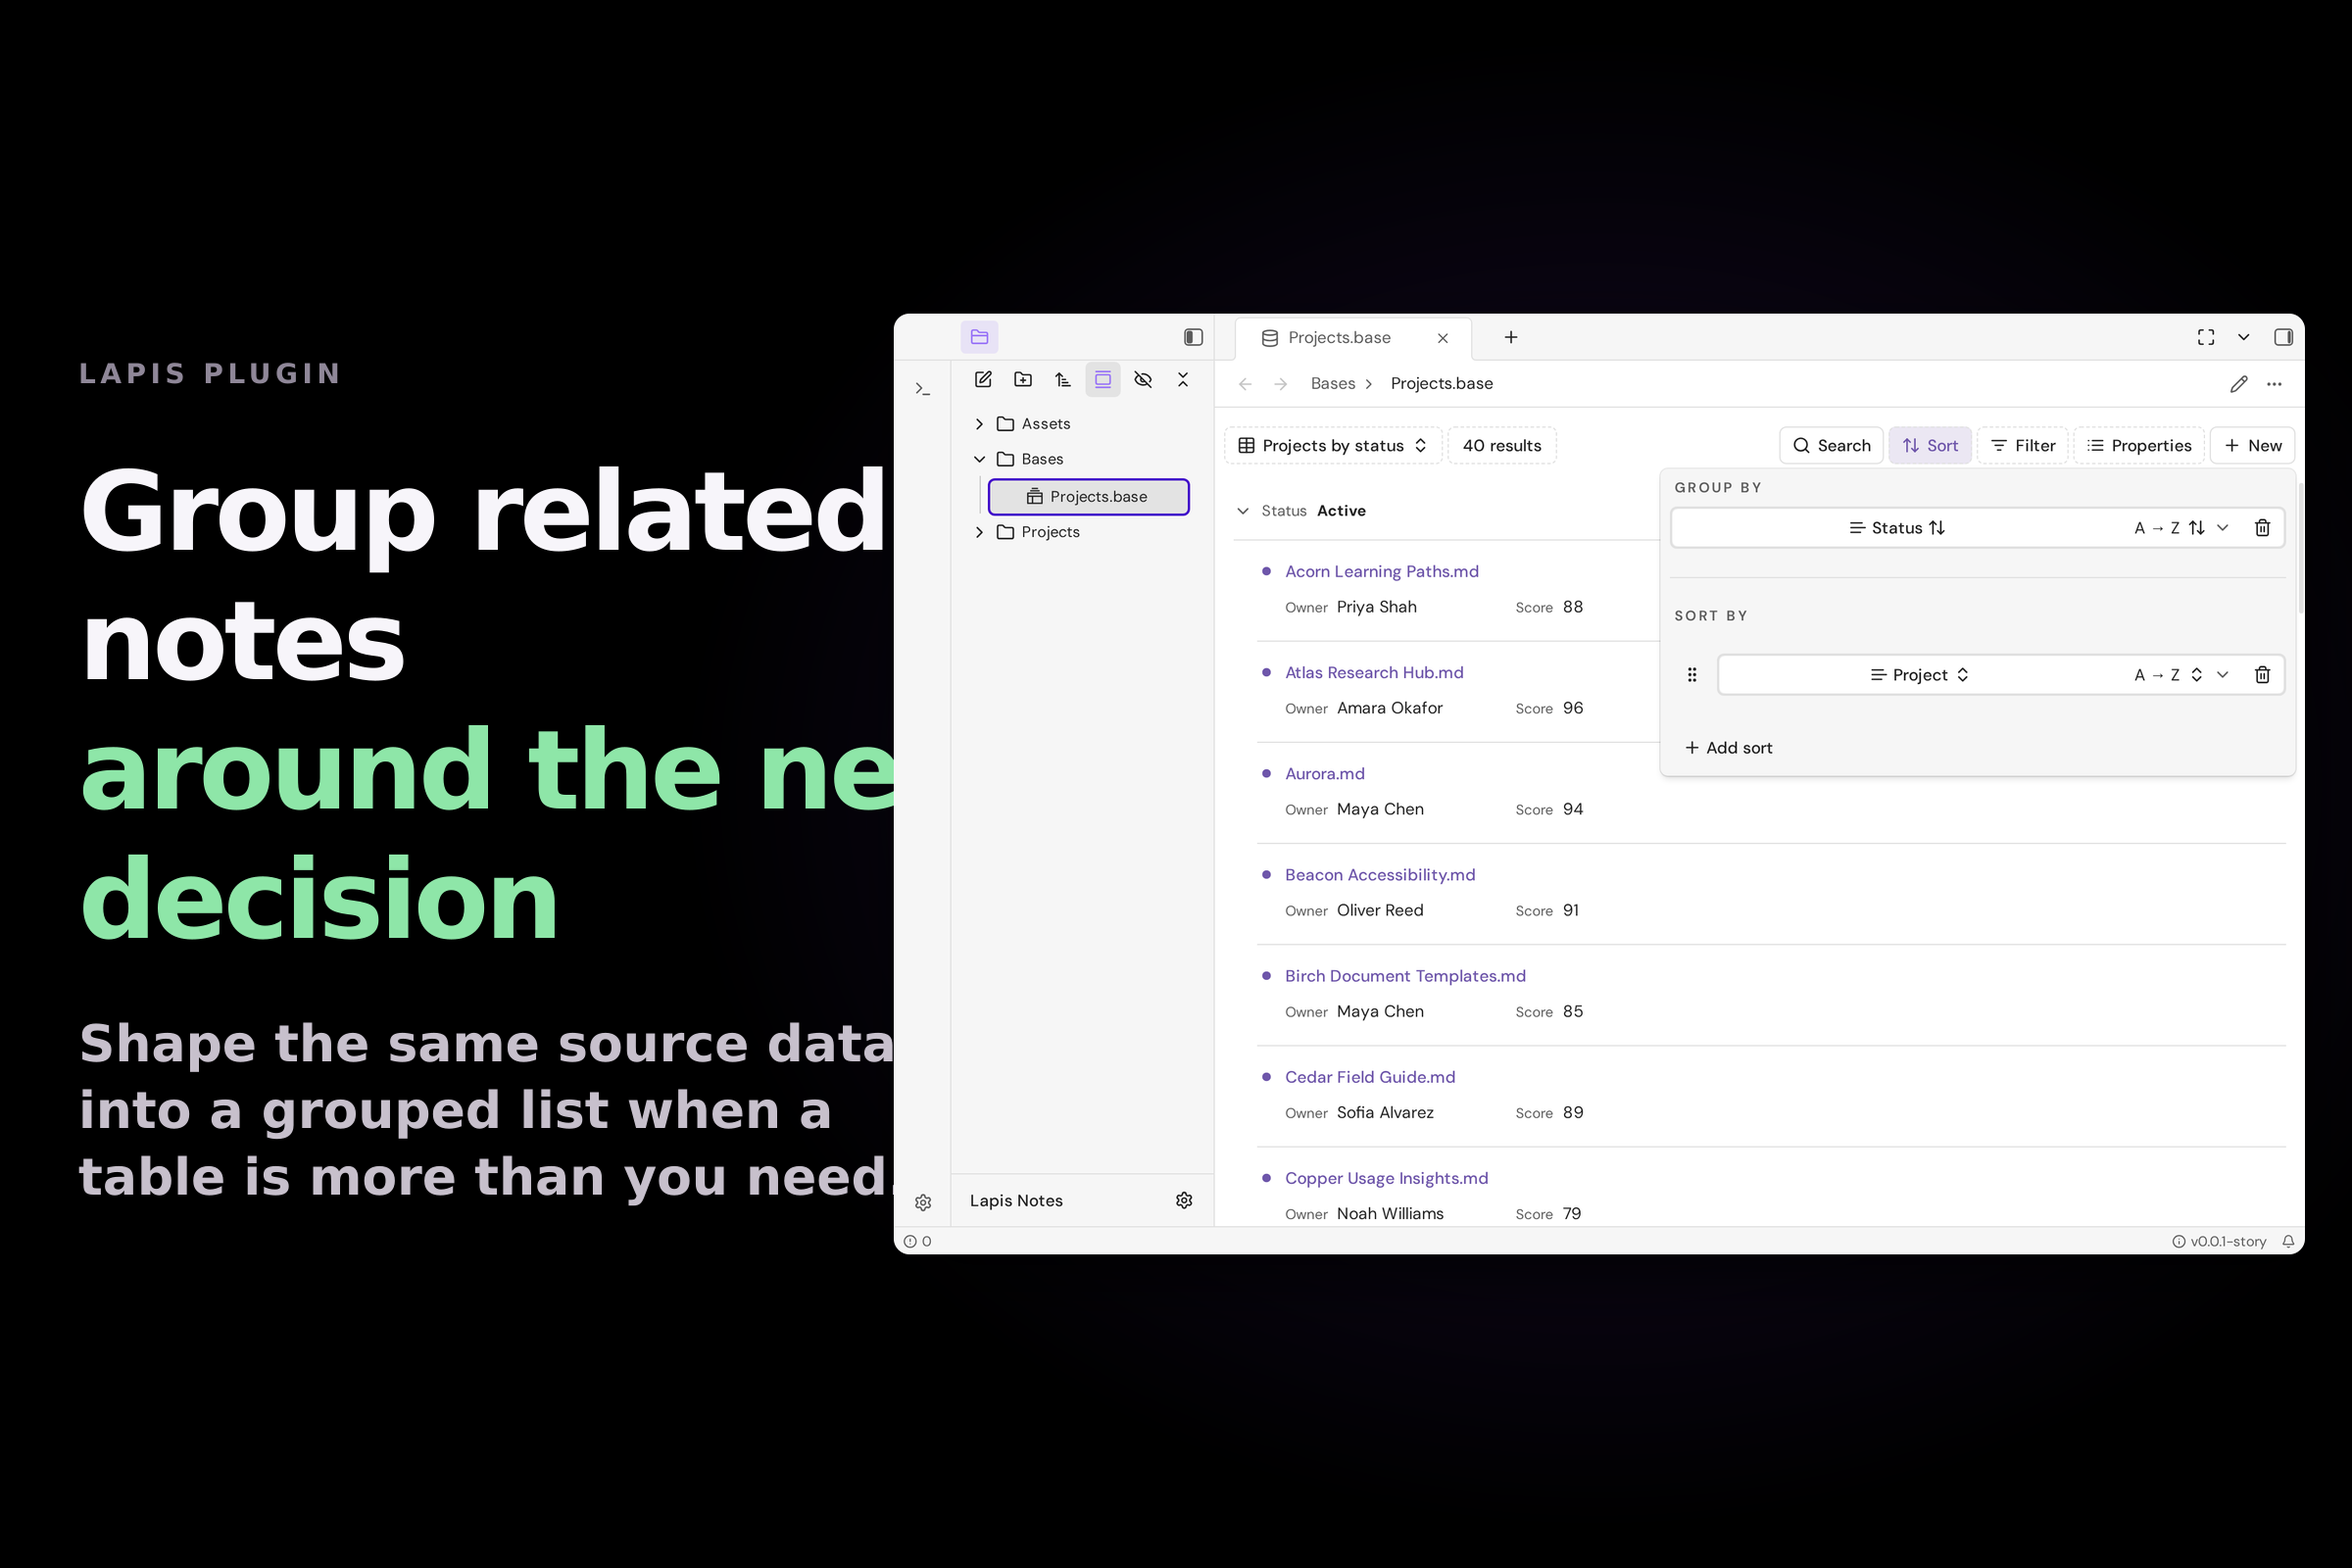
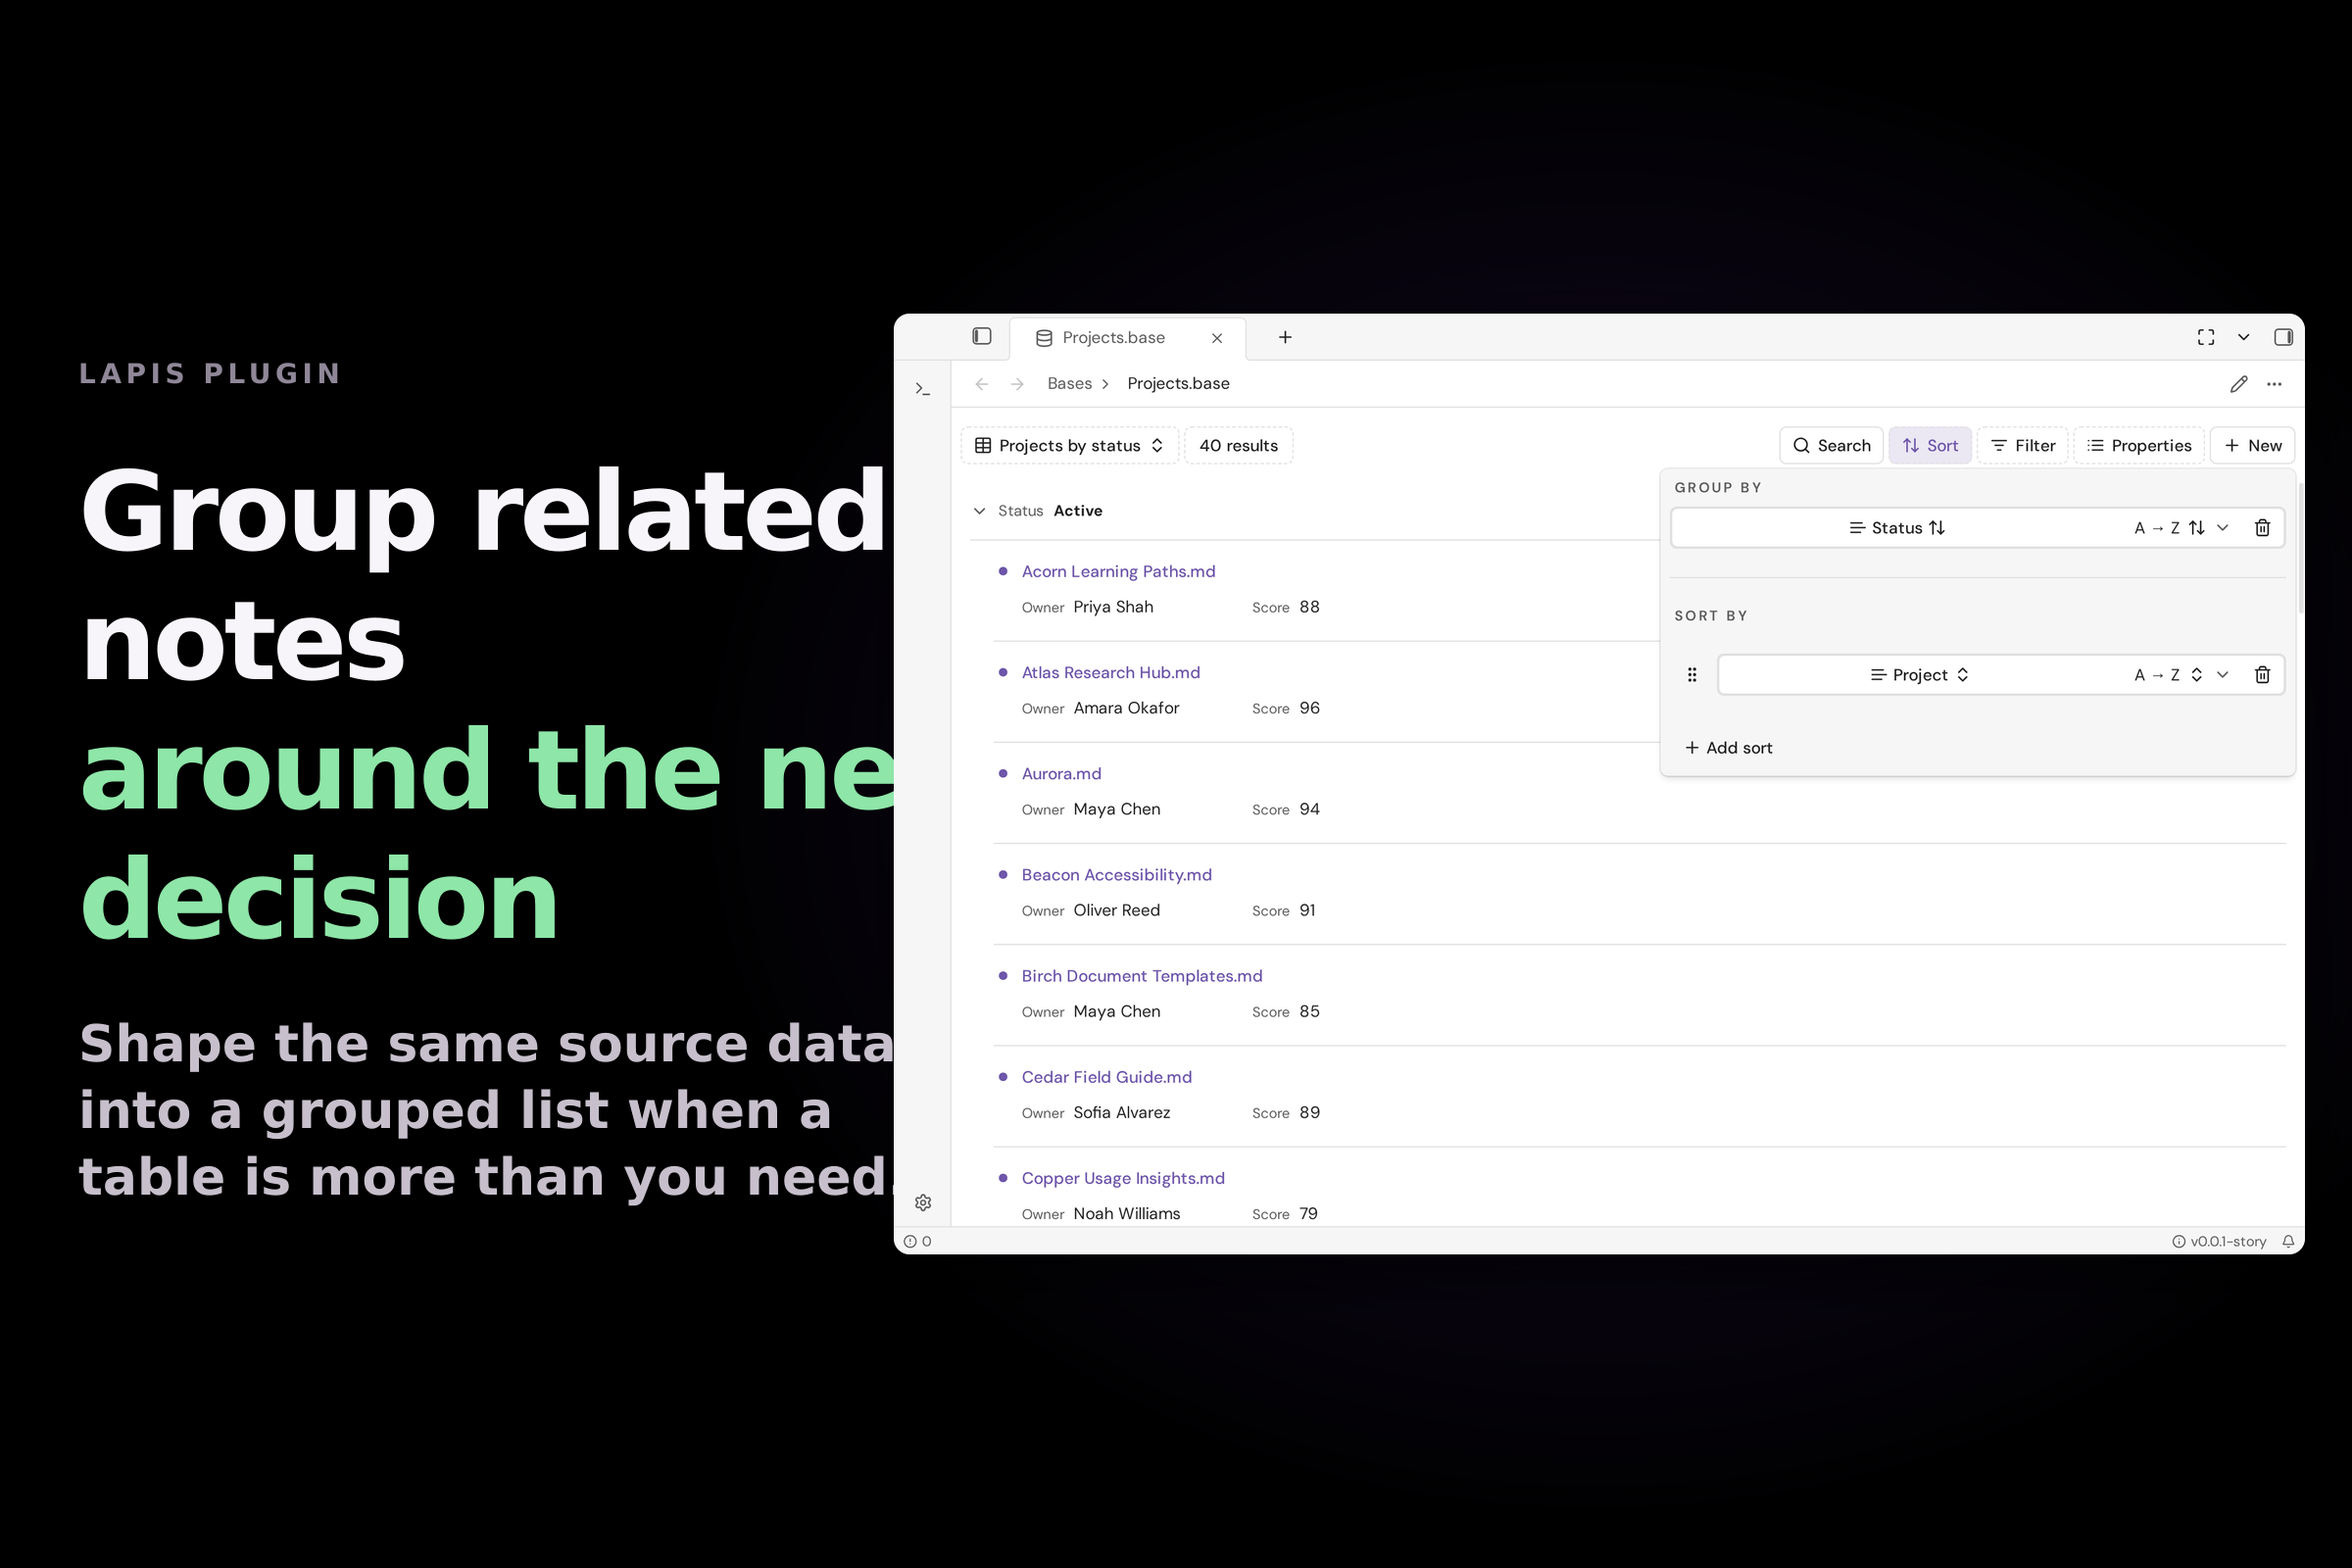
Seed Bases registry screenshots with sidebars closed

diff --git a/stories/plugins/bases/RegistryScreenshots.stories.ts b/stories/plugins/bases/RegistryScreenshots.stories.ts
@@ -45,15 +45,16 @@ async function waitForScenario(
       );
       expect(canvas.getByTestId("bases-editor-shell-demo")).toHaveAttribute(
         "data-focus-mode",
-        "false",
+        "true",
       );
       expect(canvasElement.querySelector(selector)).toBeVisible();
       const leftSidebar = canvasElement.querySelector<HTMLElement>(
         '[data-workspace-surface="left-sidebar"]',
       );
-      expect(leftSidebar?.getBoundingClientRect().width ?? 0).toBeGreaterThan(
-        100,
-      );
+      expect(leftSidebar?.getBoundingClientRect().width ?? 0).toBe(0);
+      expect(
+        canvas.getByRole("button", { name: "Open left sidebar" }),
+      ).toBeVisible();
     },
     { timeout: 20_000 },
   );
@@ -65,7 +66,7 @@ async function waitForScenario(
 }
 
 function focusedArgs(scenario: BasesViewScenario) {
-  return { scenario, focusMode: false, fixtureProfile: "registry" } as const;
+  return { scenario, focusMode: true, fixtureProfile: "registry" } as const;
 }
 
 export const FilterOptions: Story = {

diff --git a/spec/records/2026-11-08-bases-registry-focus-mode.md b/spec/records/2026-11-08-bases-registry-focus-mode.md
@@ -1,0 +1,29 @@
+# Bases registry captures with sidebars closed
+
+The Bases registry screenshot stories seed the existing shell focus mode so
+Explorer starts closed and the Bases view fills the available workspace. This
+applies to Filter options, Cover cards, Overview, Grouped list, Kanban and
+Activity. Ordinary shell stories retain their existing Explorer layout.
+
+## Regression and acceptance
+
+- Before: `pnpm test:storybook -- stories/plugins/bases/RegistryScreenshots.stories.ts -t '^Kanban$'`
+  failed once when the closed-sidebar assertion ran against the previous seed
+  (`lapis-plugins-validation-3f6df6ee-ca4b-4be3-8cb8-cc8b72760766`).
+- After: the same target passes. The complete Bases family passes all 29
+  interaction/accessibility stories, including all six registry stories and
+  the ordinary shell stories. Registry plays assert zero left-sidebar width,
+  the accessible reopen control and the existing scrolling/content contracts.
+- Remote Docker on omarchy (4 CPUs, 12 GiB) passes `ci:release`: audit,
+  specifications, App ownership, 193 tooling tests, all 51 package tasks,
+  17 npm packs, 17 plugin payload verifications and a cold static Storybook.
+- All 28 declared Bases WebPs are regenerated. A separate deterministic media
+  check passes all seven items against the newly built Storybook.
+
+Combined receipt: `lapis-plugins-validation-f7c34b64-e24a-4f02-8180-ca5eaa148654`.
+The tested source snapshot is `9f52d3f3bfab762a6b24a3d3b38c7558fe46cd47`;
+generated images and this receipt are collected afterward.
+
+The local review story visibly renders with Explorer closed. No public API,
+plugin version, publication, registry dispatch or Visual Delta baseline changes
+are included. Stories retain `visual-pending` for human review.

diff --git a/spec/src/plugins/bases/index.md b/spec/src/plugins/bases/index.md
@@ -59,12 +59,14 @@ highlights, and registry-only Overview content under LP-SPEC-021 and LP-SPEC-033
 metadata remain authoritative for the fields defined by LP-SPEC-022.
 Registry identity and capture-backed gallery media remain package-owned under
 LP-SPEC-030 and LP-SPEC-031. Governed `Registry Screenshots` stories cover
-focused Filter options, Cover cards with real artwork, and a Grouped List with
-its grouping controls open; all stay `visual-pending` until separate visual
-approval.
-All three focused views use the uncropped full-shell composition so their
-complete workspace width remains visible before the shared dark right-edge
-gutter. The manifest summary names the table, card, and grouped Markdown
+focused Filter options, Cover cards with real artwork, a Grouped List with
+its grouping controls open, Kanban, and Activity; all stay `visual-pending`
+until separate visual approval.
+Every Bases registry screenshot MUST seed both sidebars closed and retain
+the real application shell, giving the selected Bases view the full available
+workspace width. Story interactions MUST assert the closed left sidebar and
+its accessible reopen control. Ordinary shell stories retain their Explorer
+layout. The manifest summary names the table, card, and grouped Markdown
 property views instead of repeating the plugin name.
 The fixed banner state uses the populated cover-card workspace with real
 artwork. The separate Overview image uses the Grouped List story so the body

diff --git a/spec/src/registry-media.md b/spec/src/registry-media.md
@@ -61,7 +61,8 @@ CSV is an active catalog package. Registry media selection includes
 Each plugin owns one explicit banner story. AI shows History left, Chat in the
 main area, and Catalog right. Graph shows Explorer, Global Graph, and Local
 Graph. History shows Explorer, Compare, and History. Markdown shows Backlinks,
-Live Preview, and File Properties. Bases uses the populated cover cards view.
+Live Preview, and File Properties. Bases uses the populated cover cards view;
+all Bases captures seed both sidebars closed so the Bases view fills the shell.
 Bookmarks and Search show their primary panel on the left beside an empty main
 workspace. Markdown Lint, Source Editor, Spell Check, and Word Count use the
 complete shell with both sidebars closed. Slides uses the full-screen Goals
